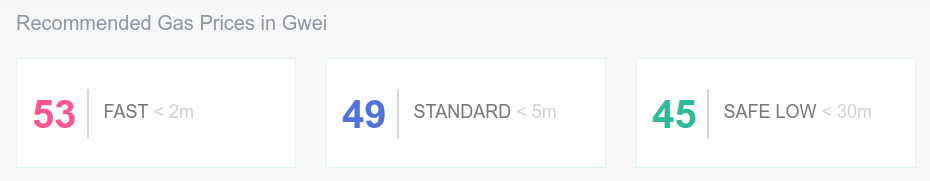
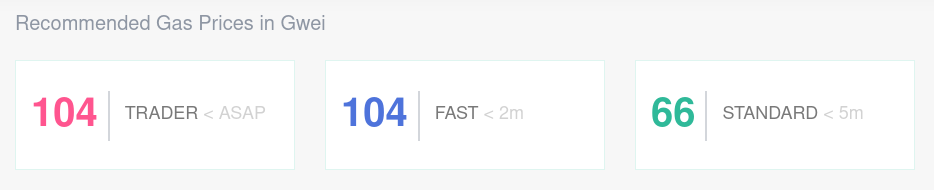
Progress

diff --git a/how-to/accessing-wallet/how-does-view-address-work.md b/how-to/accessing-wallet/how-does-view-address-work.md
@@ -6,11 +6,9 @@ tags:
   - Private Keys
 priority: 110
 date_published: '2020-04-07'
-date_modified: '2020-09-15'
+date_modified: '2021-01-26'
 ---
 
 MyCrypto is a client-side application, which means that we never store your funds. Every address you access and transaction you generate is being done locally; nothing is actually sent to us. Your Ethereum address is public on the Ethereum blockchain, and everyone can see your balance and transactions you've made on the blockchain by using a tool such as Etherscan.
 
-MyCrypto supports various methods of accessing your accounts (an account is made up of your public-facing address and your private key), like hardware wallets (Ledger and Trezor), MetaMask, WalletConnect, or private keys (by using our desktop application). All of these methods allow you to send transactions. The "View Address Only" functionality is just that: a way to view your address and its balances. You aren't actually unlocking your address like you would with the other methods, and you can't send transactions since you're just viewing your address and its balances. (Please note that you can also use this function to view other people's addresses as well. If you don't have the private key to that address or a way to access it using another method, you will not have any control over the funds it holds.)
-
-Let's say you have a Ledger Nano X, and quickly want to see your balance from your address stored on the device, without actually unlocking your Nano X, this "View Address Only" functionality is made for just that. You can simply copy/paste the address from your Nano X and see your balances, but can't send transactions since you haven't unlocked your Nano X. To actually send a transaction, you would have to grab your Nano X and unlock it with MyCrypto by using the "Ledger" option on the Send & Receive page.
+MyCrypto supports various methods of accessing your accounts (an account is made up of your public-facing address and your private key), like hardware wallets (Ledger and Trezor), MetaMask, WalletConnect, or private keys (by using our [desktop application](/how-to/offline/how-to-run-mycrypto-offline-and-locally)). All of these methods allow you to send transactions. The "View Address" functionality is just that: a way to view your address and its balances. You don't have to first unlock the address to add it to your interface, like you would with the other methods, and you can't send transactions since you're just viewing your address and its balances. (Please note that you can also use this function to view other people's addresses as well. If you don't have the private key to that address or a way to access it using another method, you will not have any control over the funds it holds.)

diff --git a/how-to/sending/how-to-know-what-gas-price-to-use.md b/how-to/sending/how-to-know-what-gas-price-to-use.md
@@ -6,7 +6,7 @@ tags:
   - Transactions
 priority: 60
 date_published: '2020-08-05'
-date_modified: '2020-10-08'
+date_modified: '2021-01-26'
 ---
 
 The gas price determines how much you pay per unit of gas. A higher gas price will mean that your transaction is confirmed faster, but will cost more, and a transaction with a lower gas price will take longer to confirm, but will cost less. The average gas prices can fluctuate a lot, and using a gas price that is too low, may result in your transaction being stuck. In this article, you'll find some recommendations on what gas price you should use.
@@ -17,17 +17,17 @@ In general, the higher the gas price, the faster your transaction will go throug
 
 You can also manually enter a gas price, by clicking on "+ Advanced". We recommend that you use [ETH Gas Station](https://ethgasstation.info/) to see the current recommended gas prices. It will show three options:
 
+- **Trader**: as soon as possible.
 - **Fast**: takes about 2 minutes or less.
 - **Standard**: takes about 5 minutes or less.
-- **Safe low**: takes about 30 minutes or less.
 
 ![Recommended gas prices as shown on ETH Gas Station](../../assets/how-to/sending/how-to-know-what-gas-price-to-use/eth-gas-station-overview.png)
 
-Anything above "Fast" means you may be paying too much for your transaction, and anything below "Safe low" means that your transaction may take a very long time to go through. Note that the recommended gas prices can change very quickly, in times with lots of network activity.
+Note that the recommended gas prices can change very quickly in times with lots of network activity.
 
 ## Minimum gas price
 
-As explained in [this article](/general-knowledge/ethereum-blockchain/what-is-gas), the transaction fee is paid to the miners directly. Miners can set a minimum gas price for each transaction. Ethermine uses a minimum gas price of 1 Gwei, whereas f2pool uses a minimum price of 32 Gwei, for example. You should make sure that your gas price is above the minimum gas price, to ensure that your transaction will be mined.
+As explained in [our "What Is Gas?" article](/general-knowledge/ethereum-blockchain/what-is-gas), the transaction fee is paid to the miners directly. Miners can set a minimum gas price for each transaction, which can differ per mining pool. You should make sure that your gas price is above the minimum gas price, to ensure that your transaction will be mined.
 
 You can see the minimum gas prices accepted by miners on [ETH Gas Station](https://ethgasstation.info/).
 

diff --git a/how-to/getting-started/where-can-i-buy-sell-trade-or-exchange-my-eth-or-tokens.md b/how-to/getting-started/where-can-i-buy-sell-trade-or-exchange-my-eth-or-tokens.md
@@ -7,7 +7,7 @@ tags:
   - Tokens
 priority: 50
 date_published: '2017-07-05'
-date_modified: '2020-10-08'
+date_modified: '2021-01-26'
 ---
 
 Here is a list of reputable services you can use to buy and sell ETH / Tokens / fiat (USD, EUR, etc.). There are many, many more out there but these are the ones we are familar with.
@@ -16,15 +16,15 @@ Here is a list of reputable services you can use to buy and sell ETH / Tokens / 
 
 Not all exchanges support all coin types and fiat types, so take a look around to find one that fits your location and circumstances.
 
-- Bitfinex: [Website](https://www.bitfinex.com/) · [Support](https://www.bitfinex.com/support)
-- Bittrex: [Website](https://bittrex.com/Home/Markets) · [Support](https://bittrex.zendesk.com/hc/en-us)
+- Binance: [Website](https://www.binance.com/) · [Support](https://www.binance.com/ng/support-center)
+- Bitfinex: [Website](https://www.bitfinex.com/) · [Support](https://cs.bitfinex.com)
+- Bittrex: [Website](https://bittrex.com/) · [Support](https://bity.com/faq/)
 - Bity: [Website](https://bity.com/af/jshkb37v) · [Support](mailto:support@bity.com)
-- Changelly: [Website](https://changelly.com/about) · [Support](mailto:support@changelly.com)
-- Coinbase: [Support](https://support.coinbase.com/)
-- Gemini: [Support](https://gemini24.zendesk.com/hc/en-us/requests/new) · [FAQ](https://gemini24.zendesk.com/hc/en-us)
-- Kraken: [Support](https://support.kraken.com/hc/en-us)
-- Liqui: [Support](https://liqui.freshdesk.com/support/home)
-- Poloniex: [Support](https://poloniex.com/support/)
-- Shapeshift: [Reddit](https://www.reddit.com/r/shapeshiftio) · [Support](https://shapeshift.zendesk.com/hc/en-us)
+- Changelly: [Website](https://changelly.com/) · [Support](mailto:support@changelly.com)
+- Coinbase: [Website](https://coinbase-consumer.sjv.io/0aAeR) · [Support](https://support.coinbase.com/)
+- Gemini: [Website](https://www.gemini.com/) · [Support](https://support.gemini.com/hc/en-us/requests/new)
+- Kraken: [Website](https://www.kraken.com/) · [Support](https://support.kraken.com/hc/en-us)
+- Poloniex: [Website](https://poloniex.com/) · [Support](https://support.poloniex.com/hc/en-us)
+- Shapeshift: [Website](https://shapeshift.com/) · [Support](https://shapeshift.zendesk.com/hc/en-us)
 
 Best of luck!

diff --git a/how-to/getting-started/how-to-buy-ether-with-usd.md b/how-to/getting-started/how-to-buy-ether-with-usd.md
@@ -6,7 +6,7 @@ tags:
   - Tokens
 priority: 60
 date_published: '2017-06-20'
-date_modified: '2020-10-08'
+date_modified: '2021-01-26'
 ---
 
 Hello and welcome to Ethereum! Ethereum and digital currencies are pretty new and in this new financial world, things can be a little bit different. This article gives an overview of what ETH is, where and how you can buy ETH with USD, some important info on how to store it, and how to be secure. We tried to keep it as short as possible so please take the time to read through the article. Don't hesitate to contact us directly if you have any questions or concerns, we are here to help!
@@ -37,7 +37,7 @@ For any questions or issues on how to buy ETH with USD via Coinbase, please cont
 
 Purchasing ETH on exchanges is very common and probably the most popular way to buy ETH. Once you have purchased your ETH, you have a choice of how to store it.
 
-- [MyCrypto](https://beta.mycrypto.com/) - Client-Side Wallet - You are in control of your funds and private information like passwords and private keys
+- [MyCrypto](https://mycrypto.com/) - Client-Side Wallet - You are in control of your funds and private information like passwords and private keys
 - Exchange - Hosted Wallet - Funds and private information is stored on company servers.
 - [Hardware Wallet](https://support.mycrypto.com/staying-safe/hardware-wallet-recommendations) - Physical Device that stores your private information.
 
@@ -80,7 +80,7 @@ Then, create an Ethereum account and back it up. From where you have stored your
 **Please make sure you back it up!**
 
 - [MyCrypto.com](https://mycrypto.com/)
-- [Beta MyCrypto](https://beta.mycrypto.com/)
+- [Beta MyCrypto](https://mycrypto.com/)
 - [Legacy MyCrypto](https://legacy.mycrypto.com)
 - [JAXX](https://jaxx.io/) - multi-platform, multi-currency
 - [Exodus.io](https://www.exodus.io/) - multi-currency desktop app

diff --git a/how-to/sending/checking-the-status-of-a-transaction.md b/how-to/sending/checking-the-status-of-a-transaction.md
@@ -5,16 +5,10 @@ tags:
   - Beta
 priority: 90
 date_published: '2020-08-24'
-date_modified: '2020-10-08'
+date_modified: '2021-01-26'
 ---
 
-<Alert>
-
-While [mycrypto.com](https://mycrypto.com/) also supports checking transactions, this improved version is currently only found on MyCrypto beta, which you can find at [beta.mycrypto.com](https://beta.mycrypto.com/).
-
-</Alert>
-
-The MyCrypto transaction status feature allows you to view the status of previously sent transactions, as well as various transaction information, such as [Gas Limit](/how-to/sending/how-to-know-what-gas-limit-to-use) used, [Gas Price](/how-to/sending/how-to-know-what-gas-price-to-use) used, and [Nonce](/general-knowledge/ethereum-blockchain/what-is-nonce). The feature is available at [app.mycrypto.com/tx-status](https://app.mycrypto.com/tx-status). In the near future, you'll be able to speed up a transaction from this page as well.
+The MyCrypto transaction status feature allows you to view the status of previously sent transactions, as well as various transaction information, such as [Gas Limit](/how-to/sending/how-to-know-what-gas-limit-to-use) used, [Gas Price](/how-to/sending/how-to-know-what-gas-price-to-use) used, and [Nonce](/general-knowledge/ethereum-blockchain/what-is-nonce). The feature is available at [app.mycrypto.com/tx-status](https://app.mycrypto.com/tx-status).
 
 ## Viewing transaction info
 

diff --git a/how-to/accessing-wallet/how-to-access-your-wallet-with-keystore-file.md b/how-to/accessing-wallet/how-to-access-your-wallet-with-keystore-file.md
@@ -5,7 +5,7 @@ tags:
   - Private Keys
 priority: 40
 date_published: '2017-06-20'
-date_modified: '2020-10-08'
+date_modified: '2021-01-26'
 ---
 
 ## Important Information
@@ -31,6 +31,12 @@ A keystore file (sometimes called a UTC file) in Ethereum is an encrypted versio
 **Note**: Your keystore file has a .json file extension. If you try to convert it to any other file extension, then it may break when you try to convert it back. Don't do this. If you want to understand the contents of your json file, reference this [medium article by Julien.Maffre](https://medium.com/@julien.maffre/what-is-an-ethereum-keystore-file-86c8c5917b97).
 
 ## Accessing your wallet
+
+<Alert>
+
+The MyCrypto desktop application is part of an older version of MyCrypto that is not actively maintained. You can find the latest version of MyCrypto on [mycrypto.com](https://mycrypto.com).
+
+</Alert>
 
 MyCrypto does not allow you to use the web application to access your keystore file. Instead, you have to download the [MyCrypto desktop app](https://download.mycrypto.com/). A more detailed explanation on why we decided for this change can be found [here](https://medium.com/mycrypto/a-safer-mycrypto-79d65196e7d8).
 

diff --git a/how-to/accessing-wallet/how-to-access-your-wallet-with-mnemonic-phrase.md b/how-to/accessing-wallet/how-to-access-your-wallet-with-mnemonic-phrase.md
@@ -5,7 +5,7 @@ tags:
   - Private Keys
 priority: 100
 date_published: '2017-06-20'
-date_modified: '2020-10-08'
+date_modified: '2021-01-26'
 ---
 
 ## Important Information
@@ -25,6 +25,12 @@ Mnemonic phrases are vulnerable for two reasons:
    - If you forget the mnemonic phrase or lose the file where you saved it, there is no guarantee that you will ever gain access back to the wallet.
 
 ## Accessing your wallet
+
+<Alert>
+
+The MyCrypto desktop application is part of an older version of MyCrypto that is not actively maintained. You can find the latest version of MyCrypto on [mycrypto.com](https://mycrypto.com).
+
+</Alert>
 
 MyCrypto does not allow you to use the web application to access your mnemonic phrase. Instead, you have to download the [MyCrypto desktop app](https://download.mycrypto.com/). A more detailed explanation of why we decided on this change can be found [here](https://medium.com/mycrypto/a-safer-mycrypto-79d65196e7d8).
 

diff --git a/how-to/getting-started/how-to-buy-btc-with-usd.md b/how-to/getting-started/how-to-buy-btc-with-usd.md
@@ -5,7 +5,7 @@ tags:
   - Tokens
 priority: 110
 date_published: '2020-03-30'
-date_modified: '2020-10-08'
+date_modified: '2021-01-26'
 ---
 
 Bitcoin is one of the most popular cryptocurrencies, and is considered to be the first decentralized cryptocurrency to have been created back in 2009. It pioneered the concept of a blockchain, of which many other applications and cryptocurrencies have been created.
@@ -14,7 +14,7 @@ Since Bitcoin works a bit differently than the regular financial world, it's imp
 
 ## Buying Bitcoin with USD
 
-You can go to [buy.mycrypto.com](https://buy.mycrypto.com/) and use our Simplex integration, or alternatively, use an exchange for purchasing cryptocurrency.
+You can go to [buy.mycrypto.com](https://buy.mycrypto.com/) and use our MoonPay integration, or alternatively, use an exchange for purchasing cryptocurrency.
 
 ## Buying through an exchange
 

diff --git a/how-to/accessing-wallet/what-is-screen-lock.md b/how-to/accessing-wallet/what-is-screen-lock.md
@@ -5,14 +5,8 @@ tags:
   - Beta
 priority: 100
 date_published: '2020-05-13'
-date_modified: '2020-10-08'
+date_modified: '2021-01-26'
 ---
-
-<Alert>
-
-This feature is currently only found on MyCrypto beta, which you can find at [beta.mycrypto.com](https://beta.mycrypto.com/).
-
-</Alert>
 
 Screen Lock is a security feature that is intended to keep prying eyes away from your information.
 
@@ -22,7 +16,7 @@ Screen Lock is especially useful for when your device is accessible to more peop
 
 ## How do I set up Screen Lock?
 
-When you have MyCrypto open and are inactive for a period of time (default is one minute), a countdown will appear.
+When you have MyCrypto open and are inactive for a period of time (default is 30 minutes), a countdown will appear.
 
 ![Screen Lock countdown](../../assets/how-to/accessing-wallet/what-is-screen-lock/countdown.png)
 

diff --git a/how-to/accessing-wallet/how-to-use-walletconnect-with-mycrypto.md b/how-to/accessing-wallet/how-to-use-walletconnect-with-mycrypto.md
@@ -6,14 +6,8 @@ tags:
   - WalletConnect
 priority: 70
 date_published: '2020-08-06'
-date_modified: '2020-08-06'
+date_modified: '2021-01-26'
 ---
-
-<Alert>
-
-This feature is currently only found on MyCrypto beta, which you can find at [beta.mycrypto.com](https://beta.mycrypto.com/).
-
-</Alert>
 
 It is very easy to use your mobile wallet in conjunction with the functionality of MyCrypto. Many of the most widely used mobile wallets allow you to connect to web3 applications quickly and easily by using WalletConnect. It’s as simple as scanning a QR code with your phone.
 

diff --git a/how-to/sending/how-to-speed-up-a-transaction.md b/how-to/sending/how-to-speed-up-a-transaction.md
@@ -5,14 +5,8 @@ tags:
   - Beta
 priority: 100
 date_published: '2020-10-20'
-date_modified: '2020-10-21'
+date_modified: '2021-01-26'
 ---
-
-<Alert>
-
-This feature is currently only found on MyCrypto beta, which you can find at [beta.mycrypto.com](https://beta.mycrypto.com/).
-
-</Alert>
 
 During times in which the Ethereum network is busy, you might notice that transactions can take longer than expected to confirm. With MyCrypto, it's possible to speed up these transactions to make sure that your funds quickly arrive where you want them to be.
 
